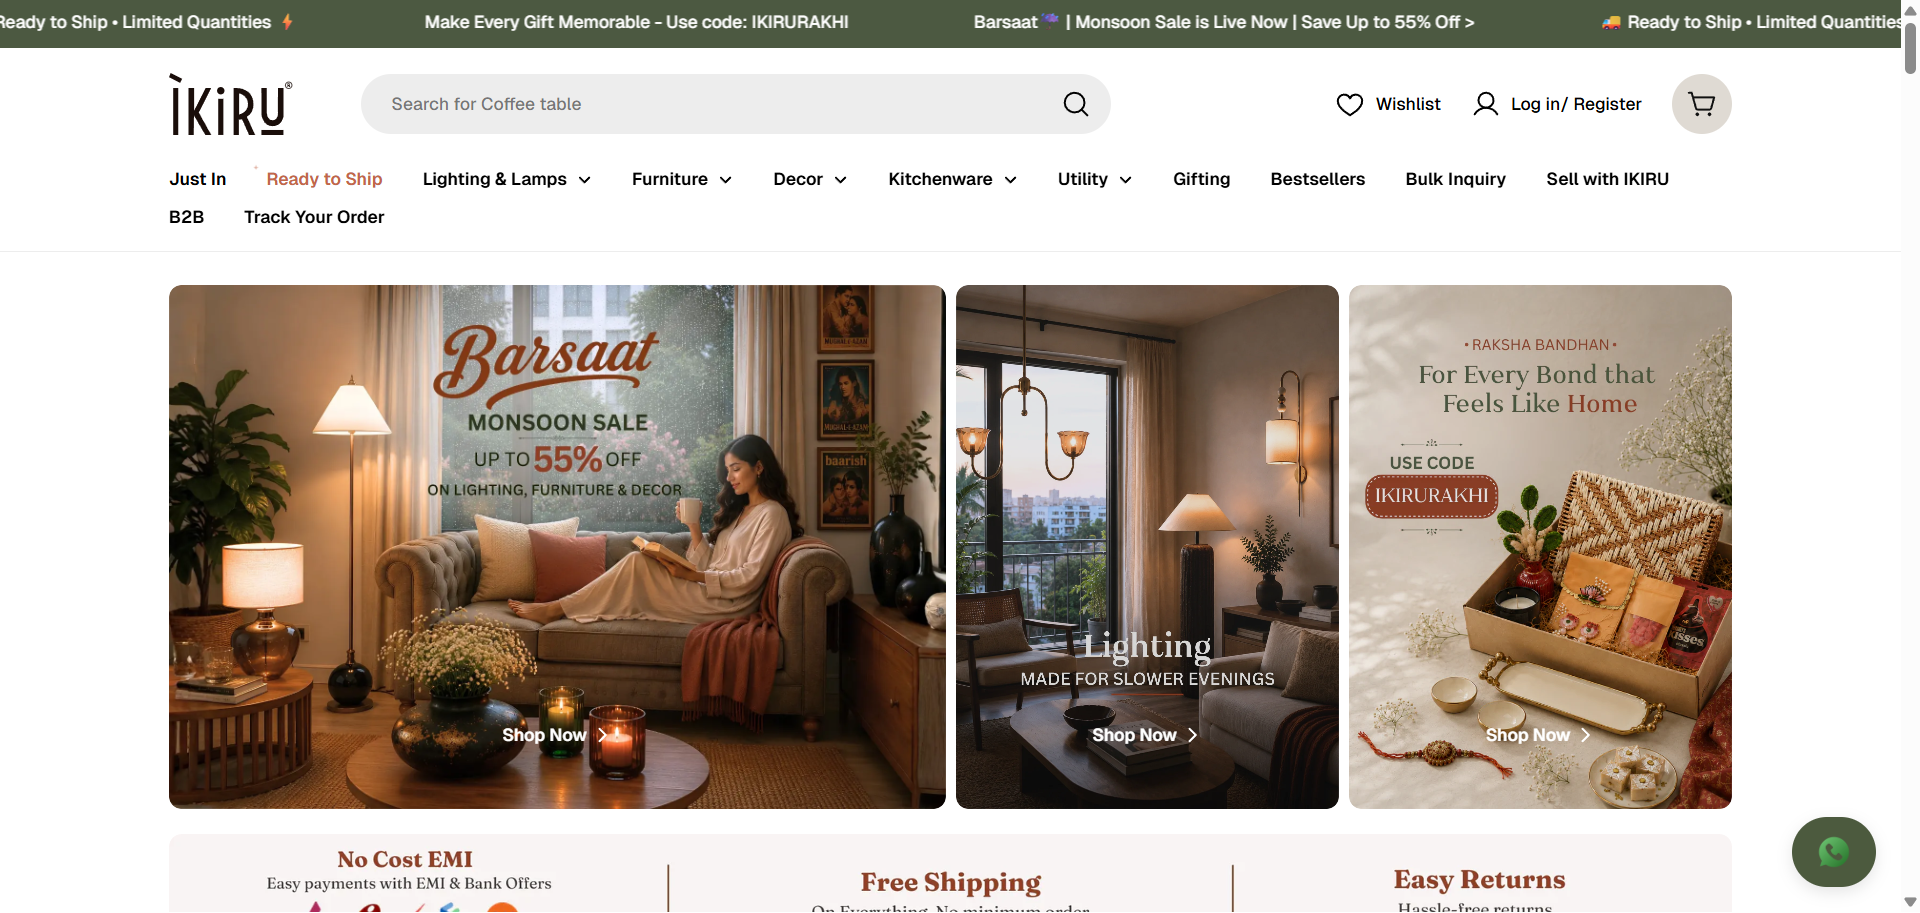
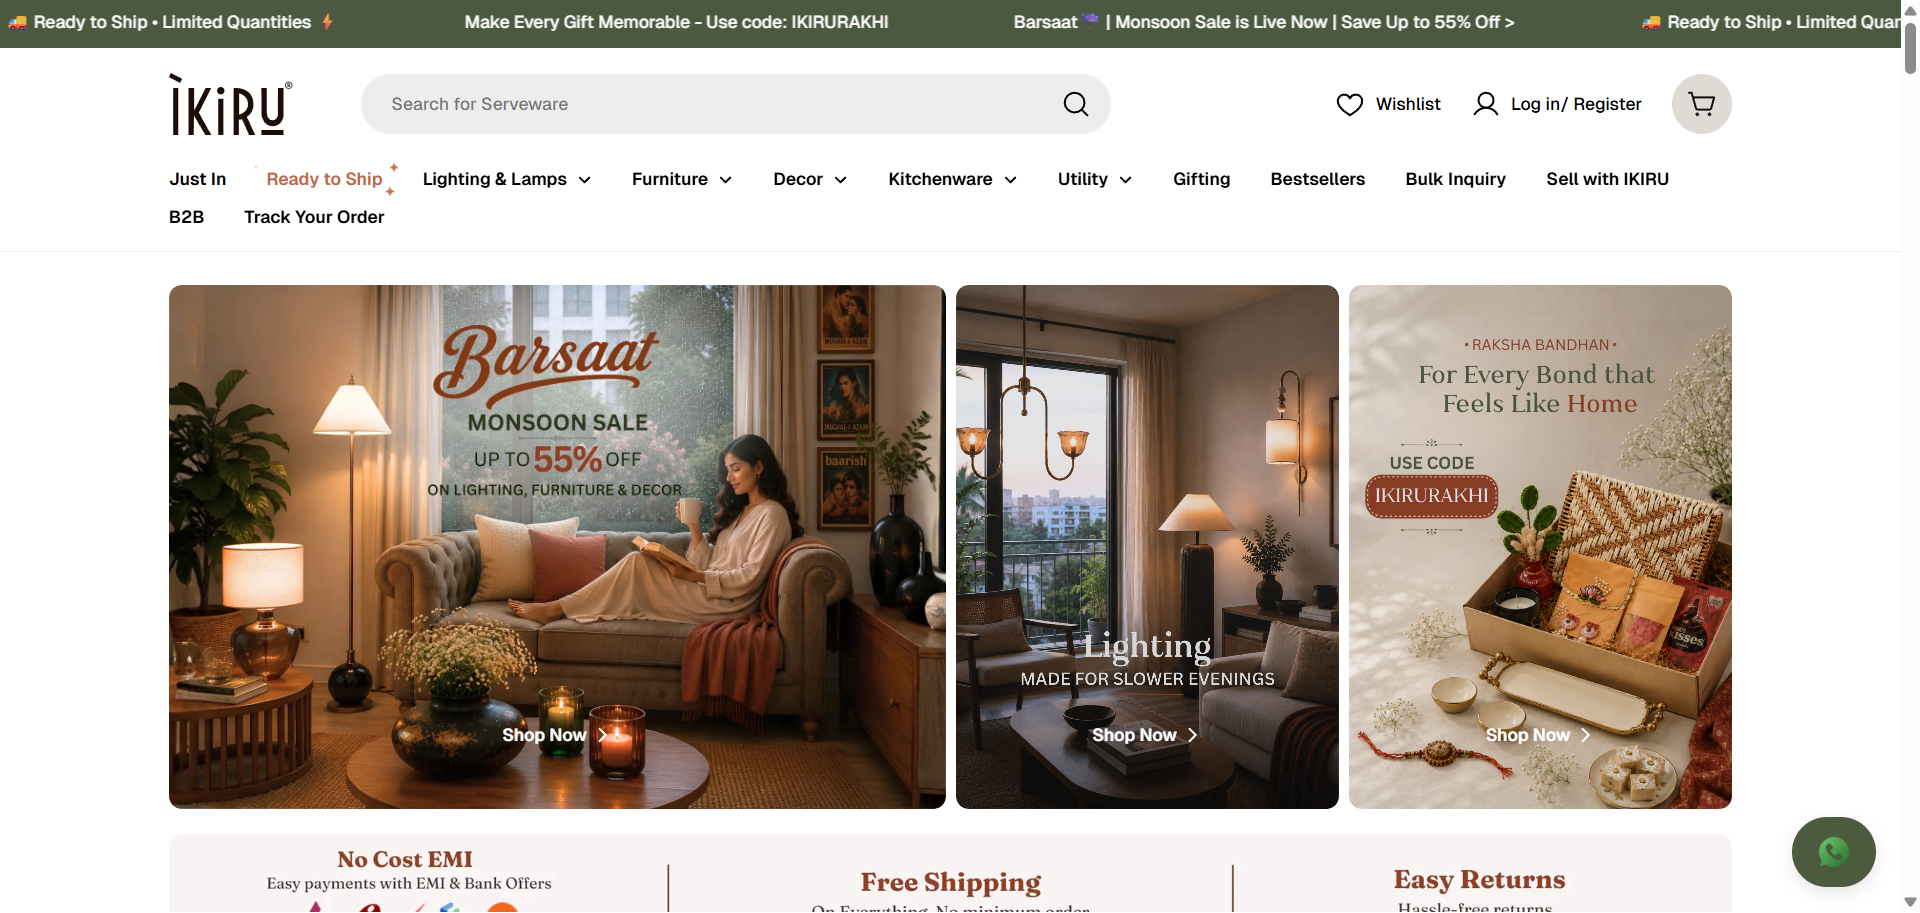
TC-5

diff --git a/IKIRU/tests/ui/testcase-5.spec.ts b/IKIRU/tests/ui/testcase-5.spec.ts
@@ -1,0 +1,96 @@
+import { test, TestInfo } from '@playwright/test';
+import { HomePageSteps } from '../../page-objects/page-steps/home-page-steps.js';
+import { CartPageSteps } from '../../page-objects/page-steps/cart-page-steps.js';
+import { ProductPageSteps } from '../../page-objects/page-steps/product-page-steps.js';
+import { TipsAndHacksPageSteps } from '../../page-objects/page-steps/tips-and-hacks-page-steps.js';
+import { CareersATIKIRUPageSteps } from '../../page-objects/page-steps/CareersATIKIRU-page-steps.js';
+import data from '../../testdata/ui/data.json' with {type: 'json'}; 
+
+
+let homePage: HomePageSteps;
+let cartPage: CartPageSteps;
+let productPage: ProductPageSteps;
+let tipsAndHacksPage: TipsAndHacksPageSteps;
+let careersATIKIRUPage: CareersATIKIRUPageSteps;
+let testData5: any;
+let testData1: any;
+let testInfo: TestInfo;
+
+test.describe('Autoamting testcase-5', () => {
+
+    //Initialize the page objects delivery test case. 
+    test.beforeEach(async ({ page }) => {
+        homePage = new HomePageSteps(page);
+        cartPage = new CartPageSteps(page);
+        productPage = new ProductPageSteps(page);
+        tipsAndHacksPage = new TipsAndHacksPageSteps(page);
+        careersATIKIRUPage = new CareersATIKIRUPageSteps(page);
+    });
+
+    //Test Case 5: Verify User is Logged in 
+    test('Verify Testcase-5', async () => {
+
+        testData5 = data["Verify Testcase-5"];
+        testData1 = data["Verify Testcase-1"];
+
+        //Lunch Application
+        await homePage.launchApplication();
+        // await homePage.setWindowSize();
+
+        //Verify HomePage is displayed
+        await homePage.verifyHomePageDisplayed();
+
+        //User click on cart icon
+        await homePage.clickOnCartIcon();
+
+        //User Verify Cart Page is displayed
+        await cartPage.verifycartPage(testData1["cartText"]);
+
+        //User Verify Empty Cart text is displayed
+        await cartPage.verifyCartIsEmpty(testData5["emptyCartText"]);
+
+        //User click on continue shopping button
+        await cartPage.clickOnContinueShoppingButton();
+
+        //verify product page is displayed 
+        await productPage.verifyProductPage(testData5["productPageText"]);
+
+        //Scroll to buttom and click on Blog under useful links
+        await productPage.clickOnBlogUnderUsefulLinks();
+
+        //Verify Tips and Hacks page is displayed
+        await tipsAndHacksPage.verifyTipsAndHacksPage(testData5["tipsAndHacksText"]);
+
+        //Click on Read More button
+        await tipsAndHacksPage.clickOnReadMoreButton();
+
+        //Click on Home button and go back to Home page
+        await tipsAndHacksPage.clickOnHomeButton();
+
+        // Scroll to buttom Click on Careers at Ikiru link
+        await homePage.clickOnCareersAtIkiruLink();
+
+        //Verify Careers at Ikiru page is displayed
+        await careersATIKIRUPage.verifyCareersATIKIRUPage(testData5["careersATIKIRUText"]);
+
+        //Hover on Hamberger menu
+        await careersATIKIRUPage.hoverOnHambergerMenu();
+
+        //Click on Apply now
+        await careersATIKIRUPage.clickOnapplyNow();
+
+        //Click on Saerch Icon
+        await careersATIKIRUPage.clickOnSearchIcon();
+
+        //Search for Manager
+        await careersATIKIRUPage.searchManager(testData5["searchValue"]);
+
+        //Click on firstItem
+        // await careersATIKIRUPage.clickOnFirstItem();
+
+        //verify Manager word is there
+
+
+    });
+
+});

diff --git a/IKIRU/page-objects/page-steps/CareersATIKIRU-page-steps.ts b/IKIRU/page-objects/page-steps/CareersATIKIRU-page-steps.ts
@@ -1,0 +1,57 @@
+import { Page } from "@playwright/test";
+import CareersATIKIRUPage from '../page-locators/CareersATIKIRU-page-locators.json' with{type: 'json'};
+import { WebCommons } from "../../commons/ui/web-commons.js";
+
+
+export class CareersATIKIRUPageSteps {
+    page: Page
+    web: WebCommons
+
+    constructor(page: Page) {
+        this.page = page;
+        this.web = new WebCommons(page);
+    }
+
+    //method to verify careers at ikiru page
+    async verifyCareersATIKIRUPage(expectedPageText: string) {
+        const actualPageText = await this.web.getText(CareersATIKIRUPage.pageText);
+        await this.web.verifyValueContains(actualPageText, expectedPageText);
+        await this.web.takeScreenshot('screenshots/careersATIKIRUPage.png');
+    }
+
+    //Method to hover on hamberger menu
+    async hoverOnHambergerMenu() {
+        await this.web.hoverOverElement(CareersATIKIRUPage.hambergerMenu);
+        await this.web.takeScreenshot('screenshots/hoveredOnHambergerMenu.png');
+    }
+
+    //Method to click on Apply Now
+    async clickOnapplyNow() {
+        await this.web.clickElement(CareersATIKIRUPage.applyNowLink);
+        await this.web.takeScreenshot('screenshots/clickOnapplyNow.png');
+    }
+
+    //Method to click on search Icon
+    async clickOnSearchIcon() {
+        await this.web.clickElement(CareersATIKIRUPage.searchIcon);
+        await this.web.takeScreenshot('screenshots/clickOnSearchIcon.png');
+    }
+
+    //Method to search for Manager on searchBox
+    async searchManager(searchItem:string){
+        // await this.web.clickElement(CareersATIKIRUPage.searchBox);
+        await this.web.enterText(CareersATIKIRUPage.searchBox, searchItem);
+        await this.web.takeScreenshot('screenshots/searchManager.png');
+    }
+
+    //Method to click on firstItem
+    async clickOnFirstItem(){
+        await this.web.clickElement(CareersATIKIRUPage.clickOnFirstItem);
+        
+    }
+
+
+
+
+
+}

diff --git a/IKIRU/page-objects/page-steps/tips-and-hacks-page-steps.ts b/IKIRU/page-objects/page-steps/tips-and-hacks-page-steps.ts
@@ -1,0 +1,37 @@
+import { Page } from "@playwright/test";
+import tipsAndHacksPage from '../page-locators/tips-and-hacks-page-locators.json' with{type: 'json'};
+import { WebCommons } from "../../commons/ui/web-commons.js";
+
+
+export class TipsAndHacksPageSteps {
+    page: Page
+    web: WebCommons
+
+    constructor(page: Page) {
+        this.page = page;
+        this.web = new WebCommons(page);
+    }
+
+    //method to verify tips and hacks page
+    async verifyTipsAndHacksPage(expectedTipsAndHacks: string) {
+        const actualTipsAndHacks = await this.web.getText(tipsAndHacksPage.tipsAndHacksPageText)
+        await this.web.verifyValueContains(actualTipsAndHacks, expectedTipsAndHacks)
+        await this.web.takeScreenshot('screenshots/tipsAndHacksPage.png');
+    }
+
+    //Method to click on Read More button
+    async clickOnReadMoreButton() {
+        await this.web.clickElement(tipsAndHacksPage.readMoreButton);
+        await this.web.takeScreenshot('screenshots/readMoreButtonClicked.png');
+    }
+
+    //Method to click on Home button and go back to Home page
+    async clickOnHomeButton() {
+        await this.web.clickElement(tipsAndHacksPage.homeButton);
+        await this.web.takeScreenshot('screenshots/homeButtonClicked.png');
+    }
+
+    
+    
+
+}

diff --git a/IKIRU/page-objects/page-steps/product-page-steps.ts b/IKIRU/page-objects/page-steps/product-page-steps.ts
@@ -12,6 +12,13 @@ export class ProductPageSteps {
         this.web = new WebCommons(page);
     }
 
+    //Method to verify product page
+    async verifyProductPage(expProdcutText: string) {
+        const actualProductText = await this.web.getText(productPage.prodcutPageText)
+        await this.web.verifyValueContains(actualProductText, expProdcutText);
+        await this.web.takeScreenshot('screenshots/productPage.png');
+    }
+
     //Method to verify the product count
     async verifyProductCount(expectedCount: string) {
         const actualCount: string | null = await this.web.getText(productPage.productCount)
@@ -54,9 +61,16 @@ export class ProductPageSteps {
     }
 
     //Method to click on add to cart
-    async clickOnAddToCart(){
+    async clickOnAddToCart() {
         await this.web.clickElement(productPage.addToCart);
         await this.web.takeScreenshot('screenshots/addToCart.png');
+    }
+
+    //Method to scroll to buttom and click on Blog under useful links
+    async clickOnBlogUnderUsefulLinks() {
+        await this.web.scrollToElement(productPage.blogLink);
+        await this.web.clickElement(productPage.blogLink);
+        await this.web.takeScreenshot('screenshots/blogClicked.png');
     }
 
 }

diff --git a/IKIRU/page-objects/page-steps/cart-page-steps.ts b/IKIRU/page-objects/page-steps/cart-page-steps.ts
@@ -27,4 +27,19 @@ export class CartPageSteps {
         await this.web.takeScreenshot('screenshots/shippingPolicy.png');
     }
 
+    //Method to verify cart is empty
+    async verifyCartIsEmpty(expectedCartEmptyText: string) {
+        const actualCartEmptyText = await this.web.getText(cartPage.cartEmptyText);
+        await this.web.verifyValueContains(actualCartEmptyText, expectedCartEmptyText);
+        await this.web.takeScreenshot('screenshots/cartIsEmpty.png');
+    }
+
+    //Method to click on continue shopping button
+    async clickOnContinueShoppingButton() {
+        await this.web.clickElement(cartPage.continueShoppingButton);
+        await this.web.takeScreenshot('screenshots/continueShoppingClicked.png');
+    }
+
+
+
 }

diff --git a/IKIRU/page-objects/page-steps/home-page-steps.ts b/IKIRU/page-objects/page-steps/home-page-steps.ts
@@ -79,4 +79,16 @@ export class HomePageSteps {
         await this.web.takeScreenshot('screenshots/cutleryClicked.png');
     }
 
+    //Method to click on Cart Icon(top RIght corner)
+    async clickOnCartIcon() {
+        await this.web.clickElement(homePage.cartIcon)
+        await this.web.takeScreenshot('screenshots/cartIconClicked.png');
+    }
+
+    //Method to click on Careers at IKIRU link
+    async clickOnCareersAtIkiruLink() {
+        await this.web.clickElement(homePage.carrierAtIkiruLink)
+        await this.web.takeScreenshot('screenshots/careersAtIkiruClicked.png');
+    }
+
 }
